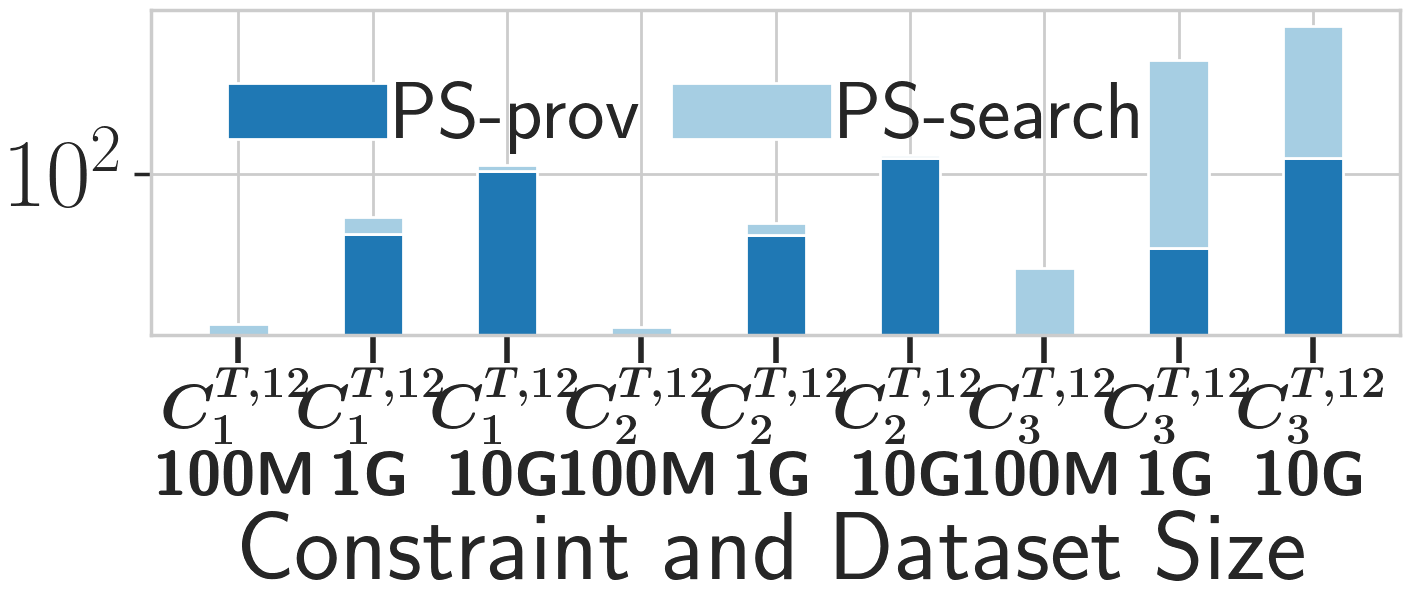
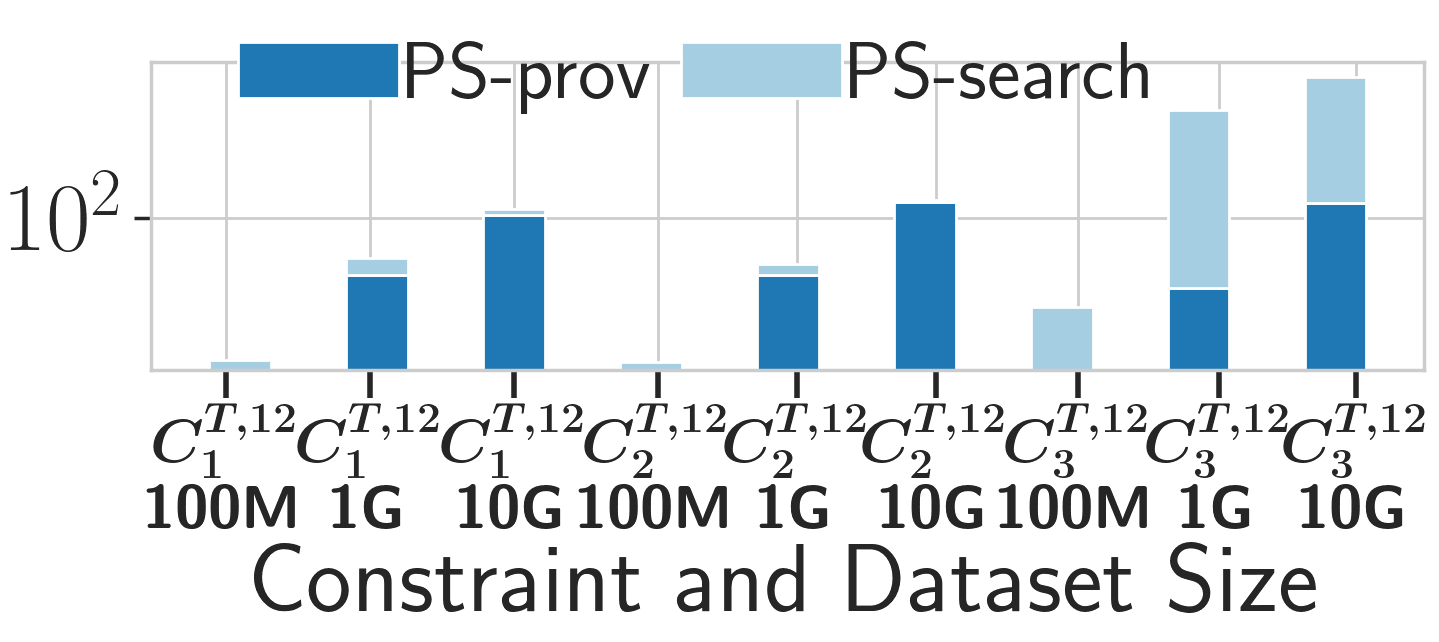
tpch running time tune fig size

Changed region(s): [[0.0, 0.0, 0.9986, 0.9656], [0.7177, 0.4361, 0.7801, 0.4984]]

diff --git a/Experiment/TPCH/running_time/fig3.py b/Experiment/TPCH/running_time/fig3.py
@@ -27,7 +27,7 @@ label = ['PS-prov', "PS-search", "BL-prov", "BL-search"]
 plt.rc('text', usetex=True)
 plt.rc('font', size=70, weight='bold')
 
-f_size = (16, 9.4)
+f_size = (16.3, 7.8)
 
 x_list = list()
 x_naive = list()
@@ -52,7 +52,7 @@ def run(q):
     print(execution_timeps1, execution_timeps2, execution_timebl1, execution_timebl2)
 
     index = np.arange(len(execution_timeps1))
-    bar_width = 0.5
+    bar_width = 0.48
 
     fig, ax = plt.subplots(1, 1, figsize=f_size)
 
@@ -62,11 +62,12 @@ def run(q):
     ax.xaxis.set_major_locator(locator)
     ax.xaxis.set_major_formatter(AutoDateFormatter(locator))
 
-    plt.bar(index, execution_timeps1, bar_width, color=color[0], label=label[0])
-    plt.bar(index, execution_timeps2, bar_width, bottom=execution_timeps1,
+    x_tick_list = [0.2, 1.25, 2.18, 3.32, 4.33, 5.23, 6.33, 7.34, 8.3]
+    plt.bar([x - bar_width / 2 for x in x_tick_list], execution_timeps1, bar_width, color=color[0], label=label[0])
+    plt.bar([x - bar_width / 2 for x in x_tick_list], execution_timeps2, bar_width, bottom=execution_timeps1,
             color=color[1], label=label[1])
-    plt.bar(index + bar_width, execution_timebl1, bar_width, color=color[2], label=label[2])
-    plt.bar(index + bar_width, execution_timebl2, bar_width, bottom=execution_timebl1,
+    plt.bar([x + bar_width / 2 for x in x_tick_list], execution_timebl1, bar_width, color=color[2], label=label[2])
+    plt.bar([x + bar_width / 2 for x in x_tick_list], execution_timebl2, bar_width, bottom=execution_timebl1,
             color=color[3], label=label[3])
 
     # x_list = [r"\boldmath$C^{T,3}_1$\n\textbf{100M}",
@@ -75,15 +76,16 @@ def run(q):
     x_list = ['\\boldmath$C^{T,3}_1$\n\\textbf{100M}', '\\boldmath$C^{T,3}_1$\n\\textbf{1G}','\\boldmath$C^{T,3}_1$\n\\textbf{10G}',
               '\\boldmath$C^{T,3}_2$\n\\textbf{100M}', '\\boldmath$C^{T,3}_2$\n\\textbf{1G}', '\\boldmath$C^{T,3}_2$\n\\textbf{10G}',
                 '\\boldmath$C^{T,3}_3$\n\\textbf{100M}', '\\boldmath$C^{T,3}_3$\n\\textbf{1G}', '\\boldmath$C^{T,3}_3$\n\\textbf{10G}']
-    plt.xticks([0.25, 1.25, 2.2, 3.3, 4.3, 5.2, 6.3, 7.3, 8.25], x_list, fontsize=45, weight='bold')
+    plt.xticks(x_tick_list, x_list, fontsize=45, weight='bold')
     plt.yticks(fontsize=70, weight='bold')
     plt.yscale('log')
     plt.xlabel(r'Constraint and Dataset Size', fontsize=70, weight='bold')
     # plt.legend(loc='upper center', bbox_to_anchor=(0.45, 1.3), fontsize=54, ncol=4, labelspacing=0.3,
     #                   handletextpad=0.1, markerscale=0.2, columnspacing=0.3, frameon=False)
+    plt.tight_layout()
     plt.legend(loc='upper center', bbox_to_anchor=(0.45, 1.3), fontsize=52, ncol=2, labelspacing=0.1,
                handletextpad=0.2, markerscale=0.3, columnspacing=2, frameon=False)
-    plt.tight_layout()
+
     fig_path = "running_time_" + str(q) + ".png"
 
     plt.savefig(fig_path, bbox_inches='tight')

diff --git a/Experiment/TPCH/running_time/fig12.py b/Experiment/TPCH/running_time/fig12.py
@@ -27,7 +27,7 @@ label = ['PS-prov', "PS-search", "BL-prov", "BL-search"]
 plt.rc('text', usetex=True)
 plt.rc('font', size=70, weight='bold')
 
-f_size = (16, 8)
+f_size = (16.3, 7.8)
 
 x_list = list()
 x_naive = list()
@@ -61,7 +61,7 @@ def run(q):
     locator = AutoDateLocator()
     ax.xaxis.set_major_locator(locator)
     ax.xaxis.set_major_formatter(AutoDateFormatter(locator))
-
+    x_tick_list = [-0.1, 0.95, 2, 3.05, 4.07, 5.08, 6.12, 7.15, 8.15]
     plt.bar(index, execution_timeps1, bar_width, color=color[0], label=label[0])
     plt.bar(index, execution_timeps2, bar_width, bottom=execution_timeps1,
             color=color[1], label=label[1])
@@ -76,15 +76,16 @@ def run(q):
               '\\boldmath$C^{T,12}_2$\n\\textbf{100M}', '\\boldmath$C^{T,12}_2$\n\\textbf{1G}', '\\boldmath$C^{T,12}_2$\n\\textbf{10G}',
                 '\\boldmath$C^{T,12}_3$\n\\textbf{100M}', '\\boldmath$C^{T,12}_3$\n\\textbf{1G}', '\\boldmath$C^{T,12}_3$\n\\textbf{10G}']
 
-    plt.xticks([0, 1, 2, 3, 4, 5, 6, 7, 8], x_list, fontsize=45, weight='bold')
+    plt.xticks(x_tick_list, x_list, fontsize=44, weight='bold')
     plt.yticks([1, 10, 100, 1000], fontsize=70, weight='bold')
     plt.yscale('log')
     plt.xlabel(r'Constraint and Dataset Size', fontsize=70, weight='bold')
     # plt.legend(loc='upper center', bbox_to_anchor=(0.45, 1.3), fontsize=54, ncol=4, labelspacing=0.3,
     #                   handletextpad=0.1, markerscale=0.2, columnspacing=0.3, frameon=False)
-    plt.legend(loc='upper center', bbox_to_anchor=(0.43, 1.0), fontsize=58, ncol=2, labelspacing=0.3,
-               handletextpad=0.1, markerscale=0.2, columnspacing=0.3, frameon=False)
     plt.tight_layout()
+    plt.legend(loc='upper center', bbox_to_anchor=(0.43, 1.3), fontsize=58, ncol=2, labelspacing=0.3,
+               handletextpad=0.1, markerscale=0.2, columnspacing=0.3, frameon=False)
+
     fig_path = "running_time_" + str(q) + ".png"
 
     plt.savefig(fig_path, bbox_inches='tight')
